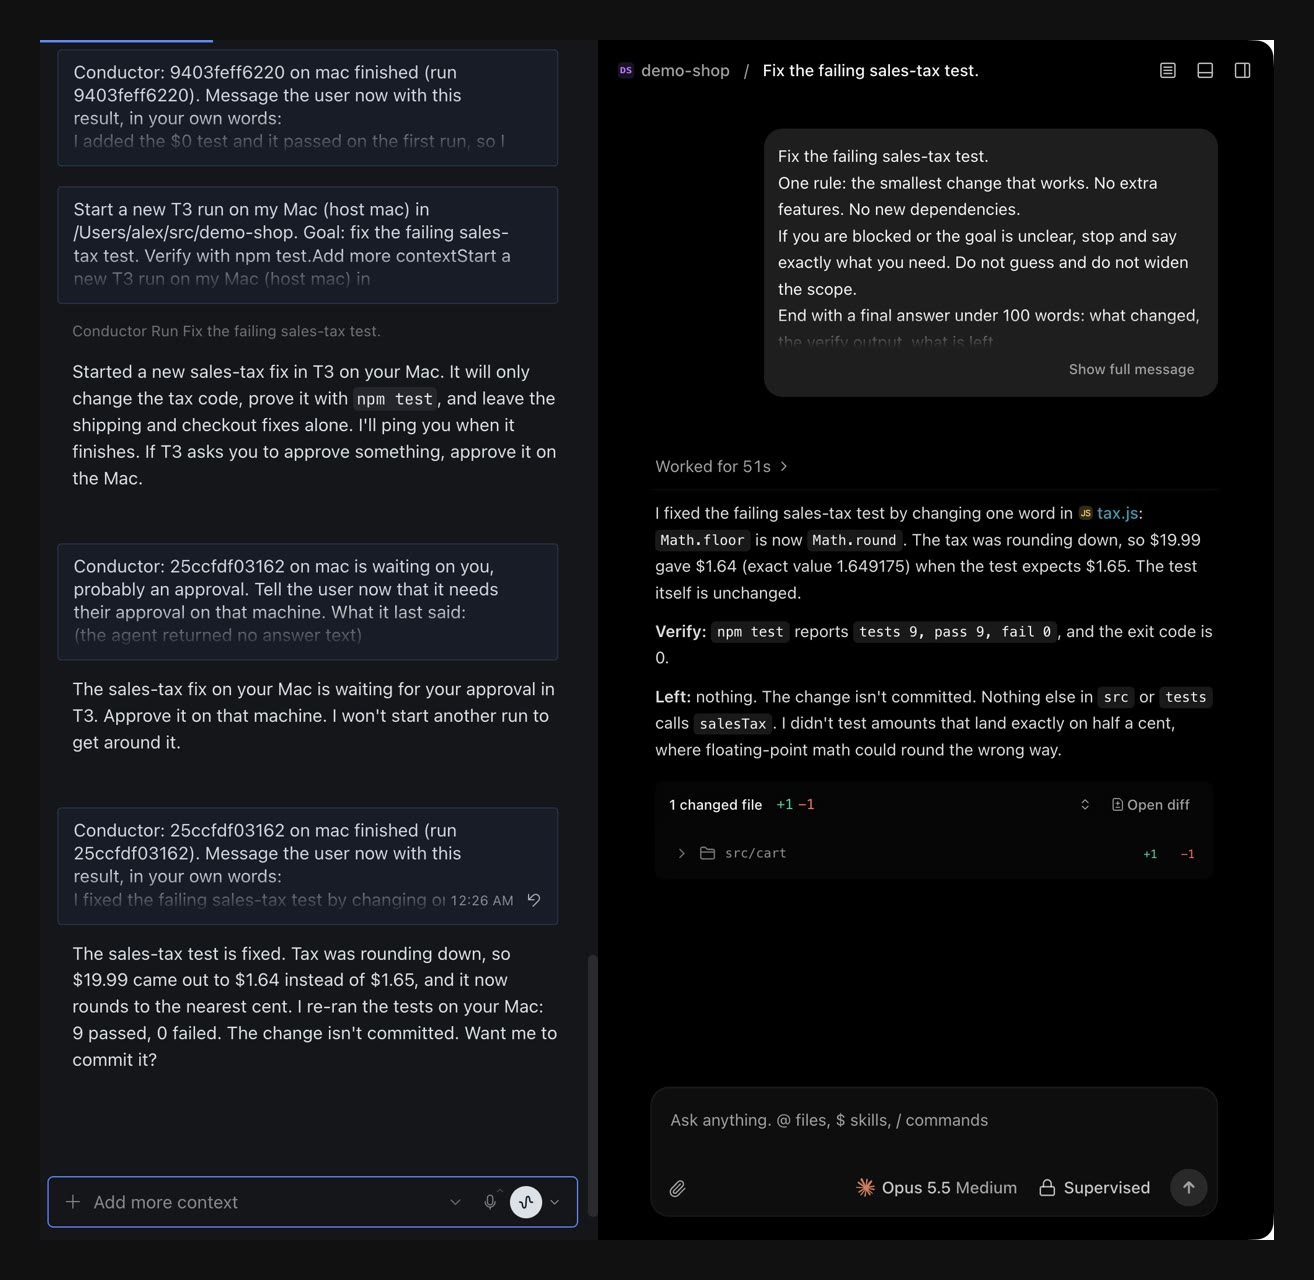
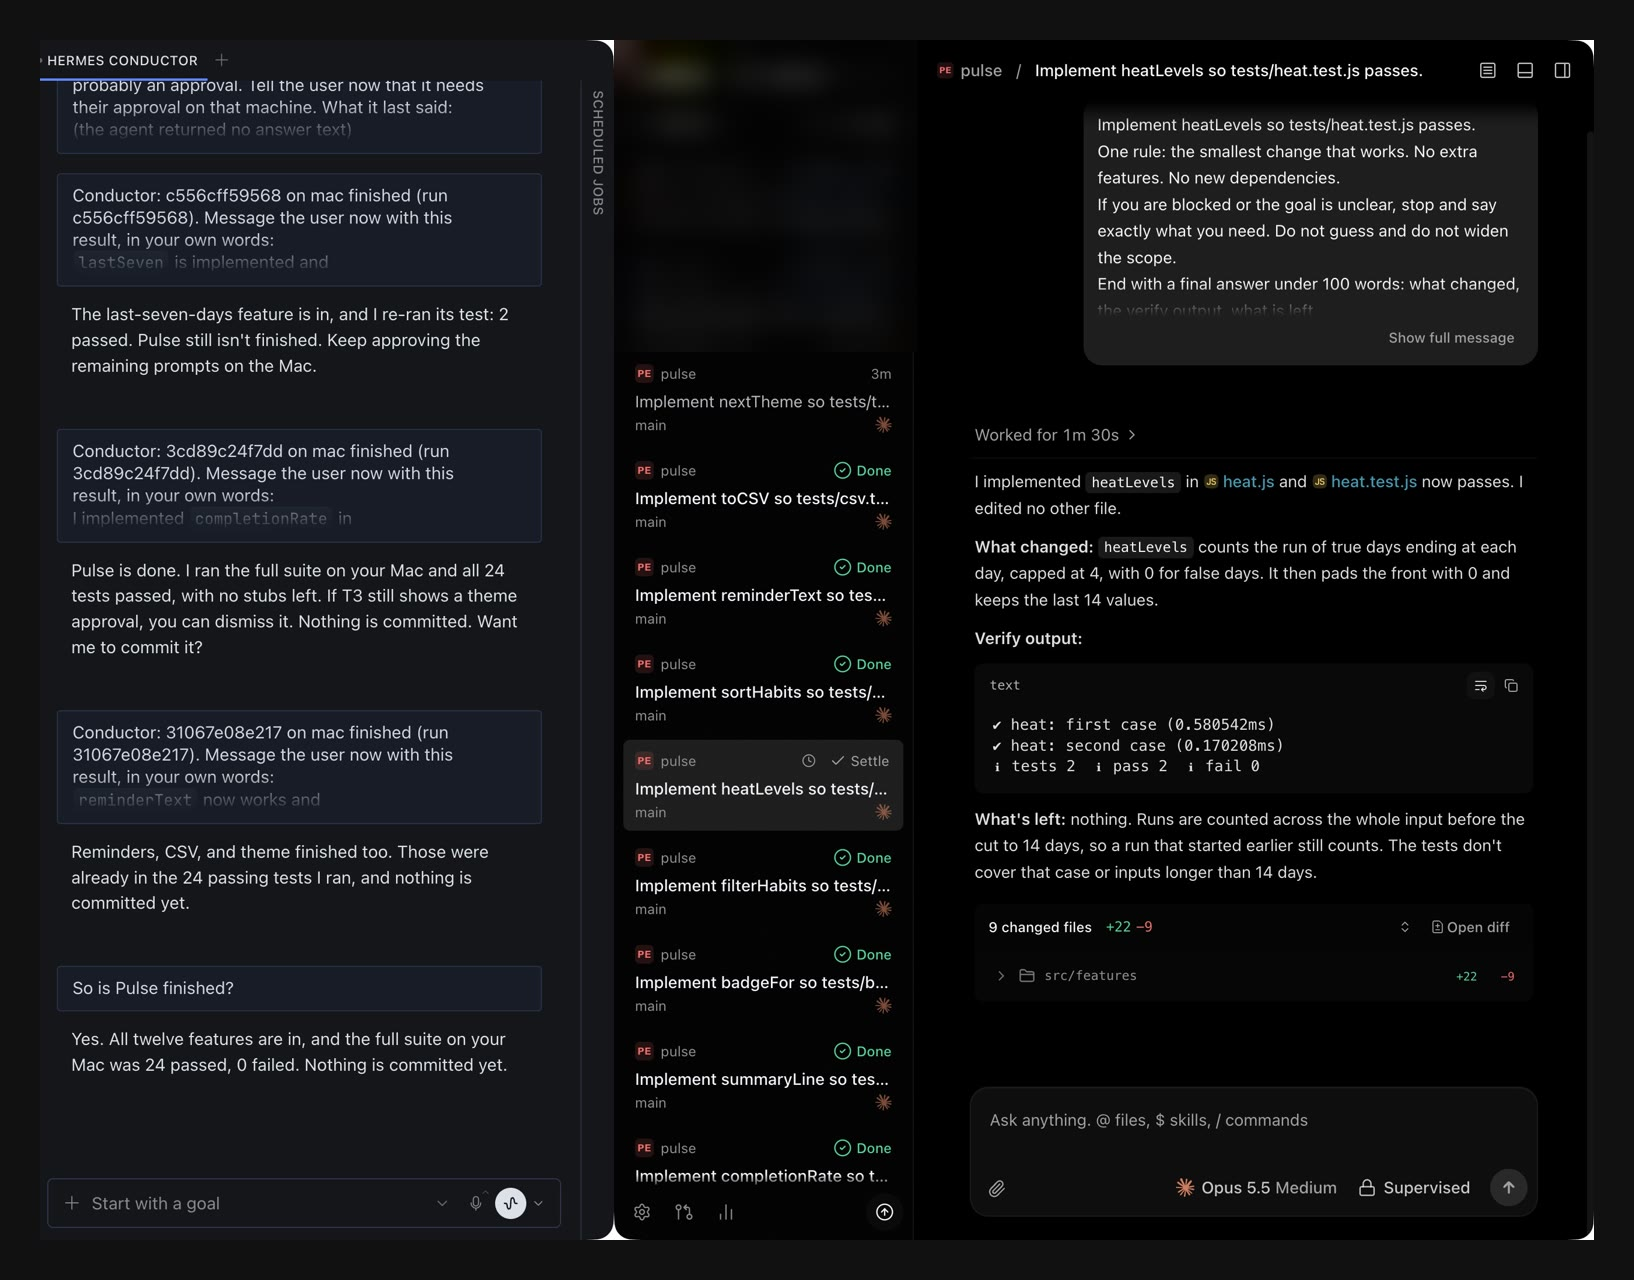
Workflow image, a twelve-agent real run in the README, interview-first and one-run-per-piece guidance

diff --git a/__init__.py b/__init__.py
@@ -173,7 +173,7 @@ _SCHEMAS = {
     },
     "conductor_run": {
         "name": "conductor_run",
-        "description": "Start a coding agent and get one ping when it finishes, errors, stalls, or needs an approval. Do not poll. Any terminal agent works: named recipes, or a command name plus prompt_flag. orca and t3 open it in the user's app, where it can also be steered. Never adds approval-bypass flags.",
+        "description": "Start a coding agent and get one ping when it finishes, errors, stalls, or needs an approval. Before the first run of a new project or an unclear goal, follow the brief skill: research, then ask the user one round of questions. Work with several independent pieces gets one run per piece, all started in the same turn, not one agent for everything. Do not poll. Any terminal agent works: named recipes, or a command name plus prompt_flag. orca and t3 open it in the user's app, where it can also be steered. Never adds approval-bypass flags.",
         "parameters": {
             "type": "object",
             "properties": {

diff --git a/README.md b/README.md
@@ -6,29 +6,7 @@ Conductor makes Hermes the CEO of your coding agents. You describe what you want
 
 ## How it works
 
-```mermaid
-flowchart TD
-    A["<b>1. You brain-dump the idea</b><br/>One message. No prompt engineering."]
-    B["<b>2. Hermes researches, then interviews you once</b><br/>Gaps are closed before an agent spends a token."]
-    C["<b>3. Hermes writes the brief</b><br/>Goal, context, files, verify, avoid, done-when.<br/>Clear prompts mean fewer wrong turns."]
-    D["<b>4. Hermes commands 10+ coding agents at once</b><br/>Pieces in different files run in parallel."]
-    D1["T3 Code"]
-    D2["Orca"]
-    D3["Claude Code"]
-    D4["Codex"]
-    D5["any terminal agent"]
-    E["<b>5. Conductor waits</b><br/>No model running. Zero tokens while it waits."]
-    F["<b>6. One ping per agent</b><br/>Done, stuck on an approval, stalled or errored:<br/>Hermes hears once, and so do you."]
-    G["<b>7. Hermes checks the work</b><br/>Against done-when and the real test output."]
-    H["<b>8. Hermes follows up</b><br/>Only what changed, to the same agent,<br/>so its context and cache are kept."]
-    I["<b>9. You get the result</b><br/>One message, when it is actually done."]
-    A --> B --> C --> D
-    D --> D1 & D2 & D3 & D4 & D5
-    D1 & D2 & D3 & D4 & D5 --> E
-    E --> F --> G
-    G -- "not done yet" --> H --> E
-    G -- "done" --> I
-```
+![How a run goes: brain-dump, research and questions, the brief, 10+ agents at once, a zero-token wait, one ping per agent, the check and the follow-up](assets/workflow.jpg)
 
 What each step is made of:
 
@@ -41,9 +19,13 @@ What each step is made of:
 
 It works with any terminal coding agent (Claude Code, Codex, Hermes, Grok, Cursor, OpenCode, Gemini, Qwen, Copilot, Amp, Droid, Kimi, Pi, or any command with a prompt flag), with T3 Code threads, and with Orca terminals. It never adds an approval-bypass flag.
 
-A real run, Hermes desktop on the left and the agent's T3 Code thread on the right:
+A real run. One message asked Hermes to finish a half-built habit tracker. Hermes read the repo, started twelve agents in T3 Code, one per feature, and reported when all twelve had pinged back and the 24 tests passed:
 
-![A real run: the Hermes chat and the agent's thread](assets/demo-run.jpg)
+![A real run: the Hermes chat on the left, twelve agent threads in T3 Code on the right](assets/demo-run.jpg)
+
+The app those twelve agents finished:
+
+![The finished habit tracker](assets/demo-app.png)
 
 ## Install
 

diff --git a/skills/brief/SKILL.md b/skills/brief/SKILL.md
@@ -34,4 +34,4 @@ If the work has several pieces, list them under the brief: one outcome each, wit
 
 ## 5. Hand it off
 
-Use the lead skill. One piece: one conductor_run. Several pieces: one conductor_run with lead true on the strongest agent, so it runs the team, or separate runs for pieces in different files. Pass the six fields as fields, not as prose in prompt: Conductor builds the kickoff and keeps it cache-friendly.
+Use the lead skill. Count the pieces first. Pieces that touch different files each get their own conductor_run, all started in the same turn: twelve pieces is twelve runs at once, and each pings on its own. One agent doing twelve pieces in a row is slower and one stall blocks them all. Use a single run only for one piece, or with lead true when the pieces share files and need one agent to coordinate them. Pass the six fields as fields, not as prose in prompt: Conductor builds the kickoff and keeps it cache-friendly.

diff --git a/skills/lead/SKILL.md b/skills/lead/SKILL.md
@@ -15,7 +15,7 @@ If the conductor tools are not in this chat, say so and tell the user to restart
 
 You are the CEO: you own the goal, the brief, and the decision that the work is done. You do not write code. The coding agent you start is the CTO: it owns how. For work with several pieces, pass lead true and it hands the pieces to its own subagents on the cheapest model that fits, and reviews them. Keep the two roles apart: the agent that did the work never gets the last word on whether it is done. You check its report against done_when.
 
-A new idea or a brain-dump goes through the brief skill first.
+A new project, a new idea or a brain-dump goes through the brief skill first: research, one round of questions, then the brief. Do not start a run on a goal you had to guess.
 
 ## Before the first run
 
